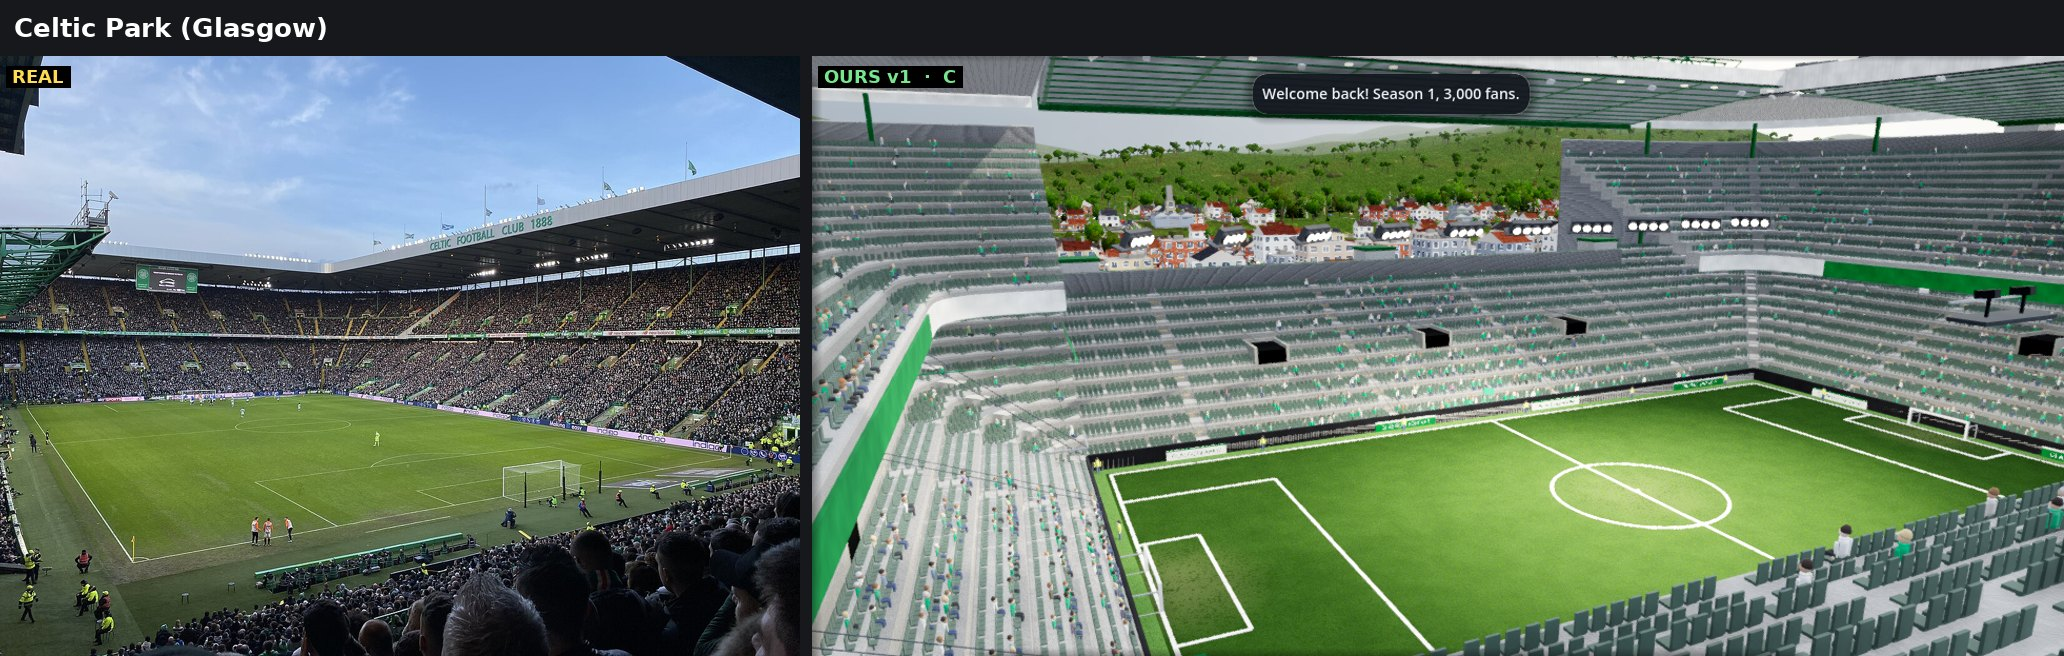
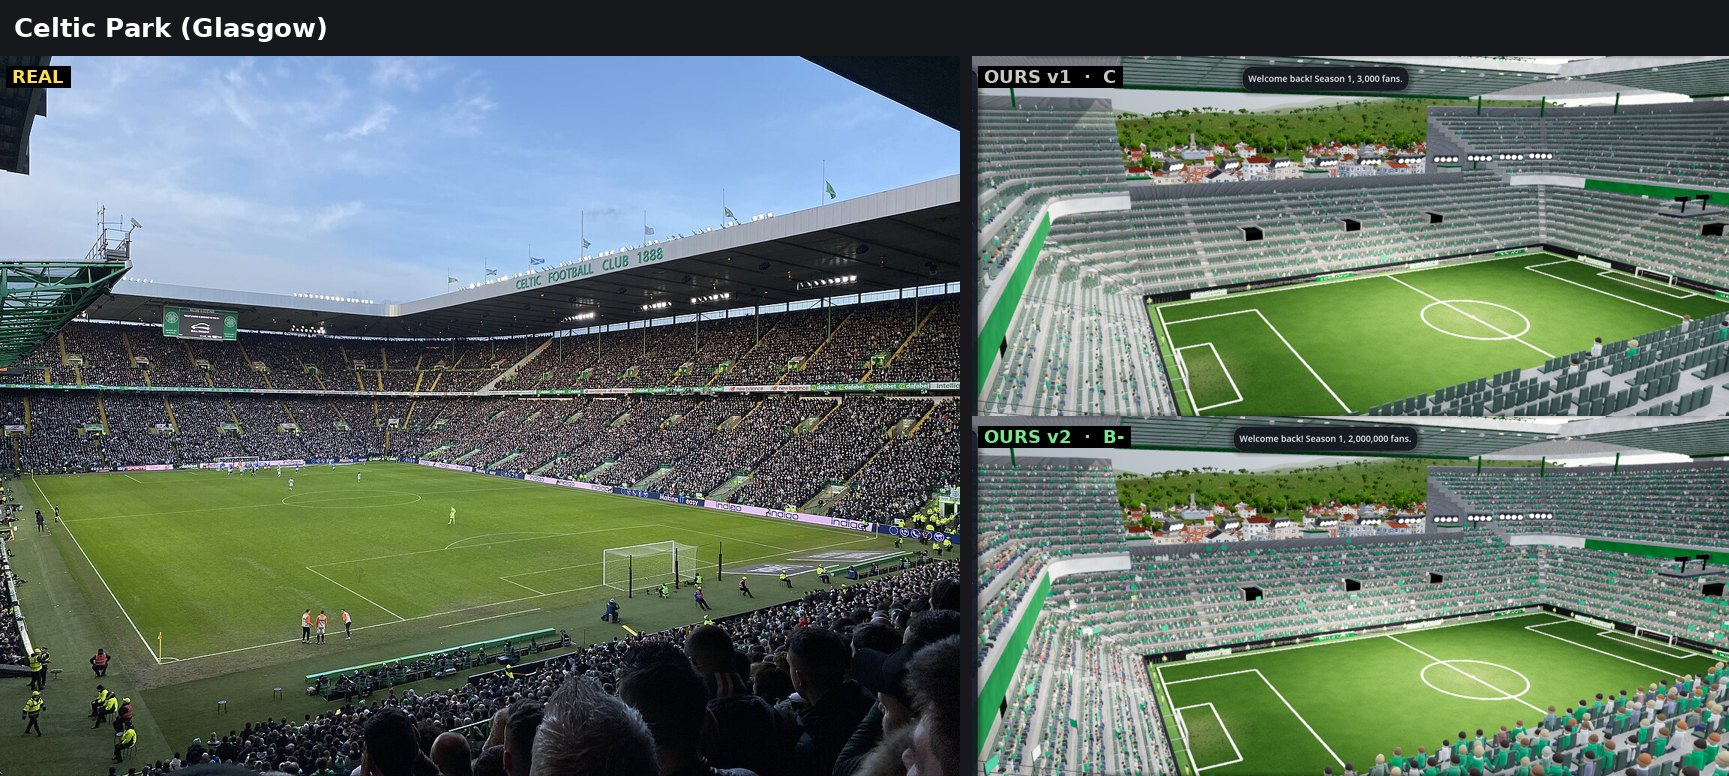
Celtic Park v2: full house
Claude-Session: https://claude.ai/code/session_019GL9DZKUN4T6LdW8KYydwH

diff --git a/RECREATION_CHALLENGE.md b/RECREATION_CHALLENGE.md
@@ -23,7 +23,7 @@ sides: `docs/recreation/compare/`.
 | Allianz Arena | C+ | B- (v2) | New ETFE cushion finish: a diamond lattice of pillows glowing at night, on an oval bowl with 3-tier rounded corners and a ring roof | v2: the new curved skin bulges out and curves into the roof. Still: the bands step on the corners; the real top edge is smoother. The esplanade and bridge in front; a dusk sky (ours goes to full night) |
 
 | Parc des Princes | C | C+ (v2) | New "concrete ribs" facade: leaning ribs that rise over the roof, round the corners too; grey ring roof with girders; blue seats | The real ribs are fewer, fatter and curve out over a much lower bowl; the roof is a flat ring of grey panels between the ribs; ours is too tall |
-| Celtic Park | - | C (v1, from the stands) | Green steelwork, 2-tier stands, rounded corners, name on the main stand roof | The crowd is thin: the script's transport caps the gate, the real ground is packed green and white. The real main stand roof is much higher and lighter; seats are near-black |
+| Celtic Park | C | B- (v2, full house) | Green steelwork, 2-tier stands, rounded corners, name on the main stand roof | v2: a full green-and-white house. The real main stand roof is much higher and lighter; seats are near-black |
 
 What round 2 added to the game (all player tools, not special cases):
 A-frame and box-girder pylons with their own paint; roof ends open / closed /
